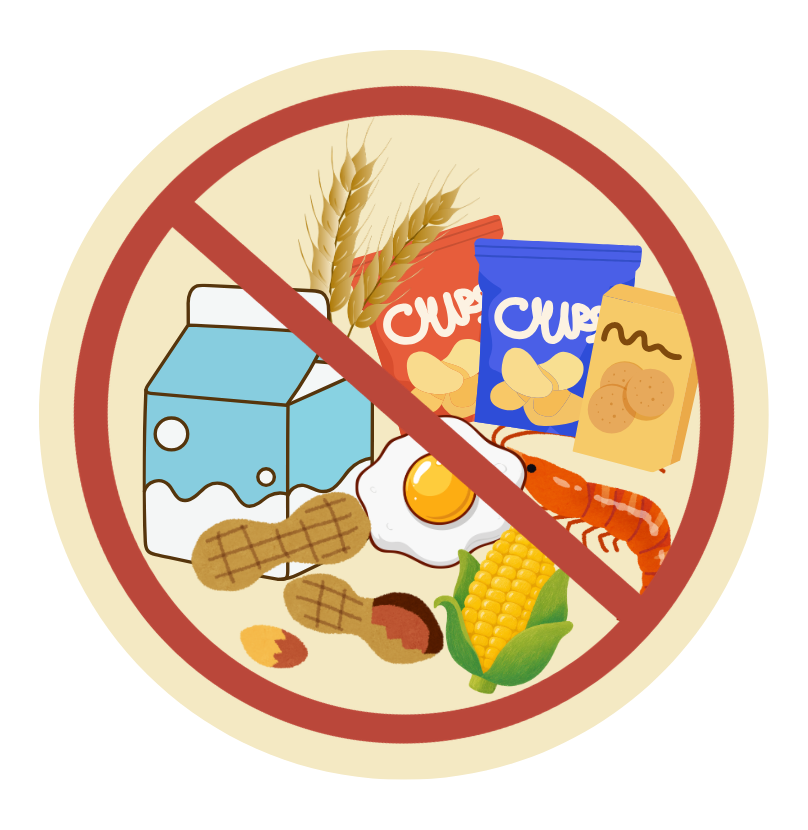
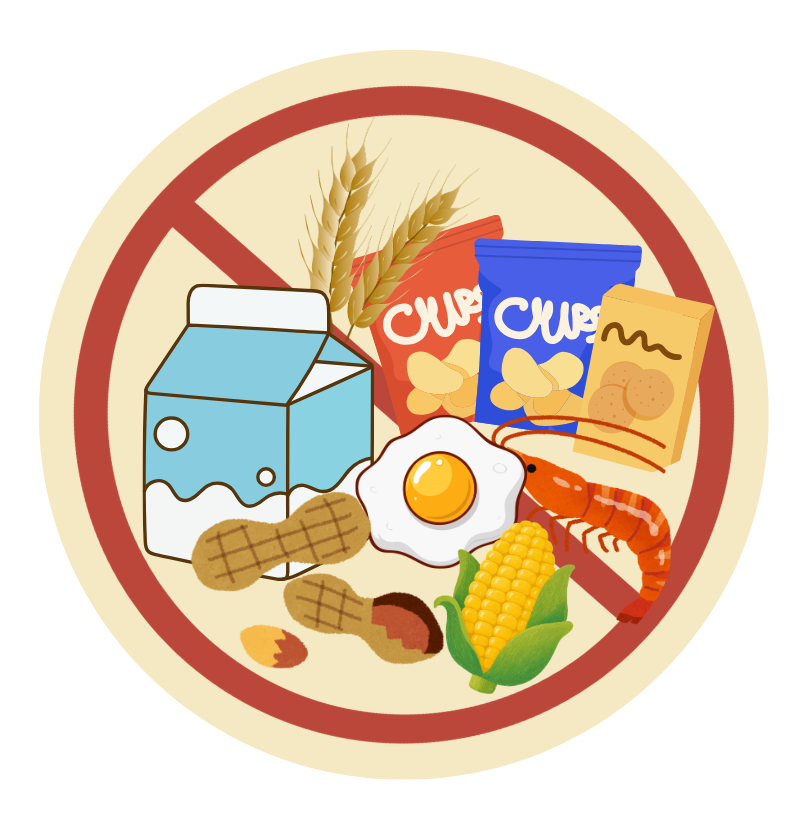
feat: uygunluk uyarısı kişisel profilden üretiliyor, uygun durumu için görsel ve renkler eklendi

diff --git a/apps/mobile/lib/features/product_detail/widgets/warning_banner.dart b/apps/mobile/lib/features/product_detail/widgets/warning_banner.dart
@@ -5,16 +5,16 @@ import '../../../core/theme/akilli_sepet_colors.dart';
 import '../../../core/theme/warning_level_style.dart';
 import 'status_dot.dart';
 
-/// Only the "Uygun değil" verdict gets an illustration; the softer levels stay
-/// with the coloured dot.
-const String _warningIcon = 'assets/other/warning.png';
-
 /// Verdict — the anchor of the screen: the level on the left, the short verdict
 /// and the personal reason on the right. No box: the colour alone carries it.
 class WarningBanner extends StatelessWidget {
-  const WarningBanner({super.key, required this.explanation});
+  const WarningBanner({super.key, required this.explanation, this.reason});
 
   final Explanation explanation;
+
+  /// Personal warning composed from the profile; falls back to the backend
+  /// explanation when the caller has none.
+  final String? reason;
 
   /// The illustration spans the title and the reason standing next to it.
   static const double _iconSize = 130;
@@ -22,11 +22,13 @@ class WarningBanner extends StatelessWidget {
   /// How far the illustration reaches past the text's left edge.
   static const double _iconInset = 12;
 
-  String get _reason => explanation.warningMessage.isNotEmpty
-      ? explanation.warningMessage
-      : explanation.summary;
-
-  bool get _isWarning => explanation.level == WarningLevel.warning;
+  String get _reason {
+    final personal = reason?.trim();
+    if (personal != null && personal.isNotEmpty) return personal;
+    return explanation.warningMessage.isNotEmpty
+        ? explanation.warningMessage
+        : explanation.summary;
+  }
 
   @override
   Widget build(BuildContext context) {
@@ -37,13 +39,13 @@ class WarningBanner extends StatelessWidget {
       // and every line of text stays to its right, never underneath it.
       crossAxisAlignment: CrossAxisAlignment.start,
       children: [
-        if (_isWarning)
+        if (style.asset != null)
           Transform.translate(
             // The png carries transparent padding, so it needs a nudge to sit
             // flush with the screen's left edge.
             offset: const Offset(-_iconInset, 0),
             child: Image.asset(
-              _warningIcon,
+              style.asset!,
               width: _iconSize,
               height: _iconSize,
               errorBuilder: (_, __, ___) =>
@@ -58,7 +60,7 @@ class WarningBanner extends StatelessWidget {
         const SizedBox(width: 2),
         Expanded(
           child: Padding(
-            padding: const EdgeInsets.only(top: 8),
+            padding: const EdgeInsets.only(top: 10),
             child: Column(
               crossAxisAlignment: CrossAxisAlignment.start,
               children: [

diff --git a/apps/mobile/test/personal_reason_test.dart b/apps/mobile/test/personal_reason_test.dart
@@ -1,0 +1,75 @@
+import 'package:flutter_test/flutter_test.dart';
+import 'package:akilli_sepet/core/models/explanation.dart';
+import 'package:akilli_sepet/core/models/rule_engine_result.dart';
+import 'package:akilli_sepet/core/models/user_profile.dart';
+import 'package:akilli_sepet/features/product_detail/profile_checks.dart';
+
+const _explanation = Explanation(
+  summary: 'Ozet',
+  level: WarningLevel.warning,
+  warningMessage: 'Backend mesaji',
+  disclaimer: 'Tibbi tavsiye degildir.',
+);
+
+UserProfile _profile({
+  List<String> diets = const [],
+  List<String> conditions = const [],
+}) {
+  return UserProfile(
+    userId: 'u1',
+    allergies: const [],
+    dietPreferences: diets,
+    healthConditions: conditions,
+  );
+}
+
+void main() {
+  test('alerjenleri tek cumlede sayar', () {
+    final reason = personalReason(
+      explanation: _explanation,
+      rule: const RuleEngineResult(
+        matchedAllergens: [],
+        hasConflict: true,
+        veganCompatible: false,
+        allergens: [
+          DetectedAllergen(key: 'gluten', matched: true),
+          DetectedAllergen(key: 'milk', matched: true),
+          DetectedAllergen(key: 'nuts', matched: true),
+        ],
+      ),
+      profile: _profile(),
+    );
+
+    expect(reason, 'Bu ürün gluten, süt / laktoz ve kabuklu yemişler içerir.');
+  });
+
+  test('diyet ve saglik cakismalarini ekler', () {
+    final reason = personalReason(
+      explanation: _explanation,
+      rule: const RuleEngineResult(
+        matchedAllergens: [],
+        hasConflict: true,
+        veganCompatible: false,
+        diabeticNote: 'Yüksek şeker oranı',
+      ),
+      profile: _profile(diets: ['Vegan'], conditions: ['Şeker hastalığı']),
+    );
+
+    expect(reason, contains('Vegan beslenmesine uygun değil.'));
+    expect(reason, contains('Şeker hastalığı: Yüksek şeker oranı.'));
+  });
+
+  test('kisisel bir sey yoksa backend mesajina duser', () {
+    final reason = personalReason(
+      explanation: _explanation,
+      rule: const RuleEngineResult(
+        matchedAllergens: [],
+        hasConflict: false,
+        veganCompatible: true,
+      ),
+      profile: _profile(),
+    );
+
+    expect(reason, 'Backend mesaji');
+  });
+}

diff --git a/apps/mobile/lib/features/product_detail/profile_checks.dart b/apps/mobile/lib/features/product_detail/profile_checks.dart
@@ -1,3 +1,4 @@
+import '../../core/constants/allergen_catalog.dart';
 import '../../core/models/explanation.dart';
 import '../../core/models/rule_engine_result.dart';
 import '../../core/models/user_profile.dart';
@@ -82,4 +83,50 @@ WarningLevel _diabeticLevel(String note) {
   if (value.contains('yüksek')) return WarningLevel.warning;
   if (value.contains('orta')) return WarningLevel.caution;
   return WarningLevel.ok;
+}
+
+/// Builds the one-paragraph personal warning shown under the verdict, from our
+/// own data instead of the LLM's free text: which allergens the product has,
+/// which diet it breaks and which health note applies.
+///
+/// Falls back to the backend explanation when the profile is empty, so an
+/// anonymous user still sees something meaningful.
+String personalReason({
+  required Explanation explanation,
+  required RuleEngineResult? rule,
+  required UserProfile? profile,
+}) {
+  final sentences = <String>[];
+
+  final allergens = (rule?.personalRiskKeys ?? const <String>[])
+      .map((key) => allergenInfo(key).label.toLowerCase())
+      .toList();
+  if (allergens.isNotEmpty) {
+    sentences.add('Bu ürün ${_join(allergens)} içerir.');
+  }
+
+  for (final check in dietChecks(profile, rule)) {
+    if (check.level != WarningLevel.ok) {
+      sentences.add('${check.label} beslenmesine uygun değil.');
+    }
+  }
+
+  for (final check in healthChecks(profile, rule)) {
+    if (check.level != WarningLevel.ok) {
+      sentences.add('${check.label}: ${check.note}.');
+    }
+  }
+
+  if (sentences.isEmpty) {
+    final fallback = explanation.warningMessage.trim();
+    return fallback.isNotEmpty ? fallback : explanation.summary;
+  }
+
+  return sentences.join(' ');
+}
+
+/// "a, b ve c"
+String _join(List<String> items) {
+  if (items.length == 1) return items.first;
+  return '${items.take(items.length - 1).join(', ')} ve ${items.last}';
 }

diff --git a/apps/mobile/lib/core/theme/warning_level_style.dart b/apps/mobile/lib/core/theme/warning_level_style.dart
@@ -2,7 +2,7 @@ import 'package:flutter/material.dart';
 
 import '../models/explanation.dart';
 
-/// Visual identity of a [WarningLevel]: colors, icon and short label.
+/// Visual identity of a [WarningLevel]: colors, artwork and short label.
 ///
 /// Single source of truth — the product detail verdict, scan history and any
 /// future list share it instead of repeating their own colour switches.
@@ -13,6 +13,7 @@ class WarningLevelStyle {
     required this.border,
     required this.icon,
     required this.title,
+    this.asset,
   });
 
   /// Text, icon and accent colour.
@@ -21,15 +22,19 @@ class WarningLevelStyle {
   final Color border;
   final IconData icon;
 
-  /// Short verdict shown to the user, e.g. "Uygun değil".
+  /// Short verdict shown to the user, e.g. "Uygun değil!".
   final String title;
 
+  /// Illustration for this level; levels without one fall back to the dot.
+  final String? asset;
+
   static const WarningLevelStyle warning = WarningLevelStyle(
-    main: Color(0xFFDC2626),
+    main: Color(0xFFBA473A),
     background: Color(0xFFFEF2F2),
     border: Color(0xFFFCA5A5),
     icon: Icons.gpp_bad_rounded,
     title: 'Uygun değil!',
+    asset: 'assets/other/warning.png',
   );
 
   static const WarningLevelStyle caution = WarningLevelStyle(
@@ -41,11 +46,12 @@ class WarningLevelStyle {
   );
 
   static const WarningLevelStyle ok = WarningLevelStyle(
-    main: Color(0xFF16A34A),
+    main: Color(0xFF78BF1C),
     background: Color(0xFFF0FDF4),
     border: Color(0xFF86EFAC),
     icon: Icons.verified_user_rounded,
-    title: 'Sana uygun',
+    title: 'Uygun',
+    asset: 'assets/other/suitable.png',
   );
 
   static WarningLevelStyle of(WarningLevel level) => switch (level) {

diff --git a/apps/mobile/lib/features/product_detail/product_detail_view.dart b/apps/mobile/lib/features/product_detail/product_detail_view.dart
@@ -140,7 +140,14 @@ class _ProductDetailViewState extends ConsumerState<ProductDetailView> {
               const SizedBox(height: 14),
 
               // 2. Uygunluk sonucu — ekranın görsel çıpası
-              WarningBanner(explanation: explanation),
+              WarningBanner(
+                explanation: explanation,
+                reason: personalReason(
+                  explanation: explanation,
+                  rule: _viewModel.ruleEngineResult,
+                  profile: _viewModel.userProfile,
+                ),
+              ),
               const SizedBox(height: 32),
 
               // 3-6. Profil kategorileri: alerji, diyet, sağlık, besin değerleri
